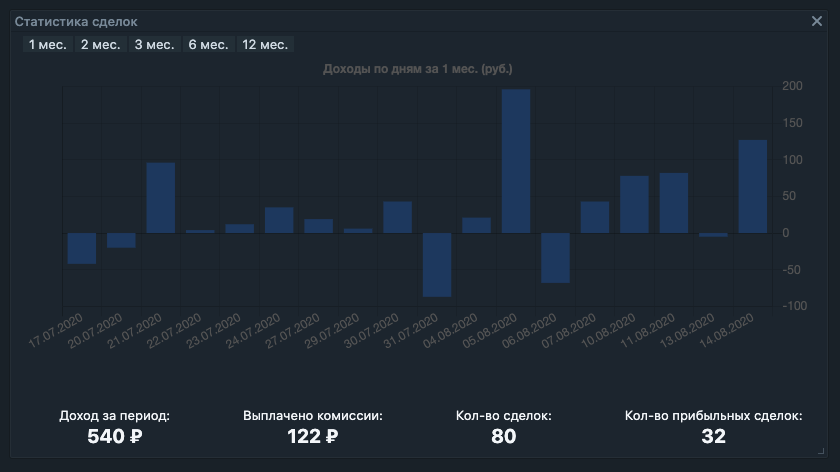
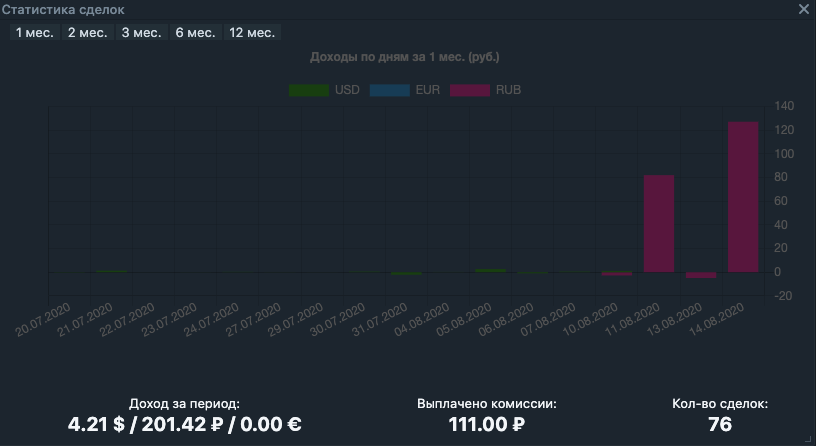
v1.1.0

diff --git a/src/content/statChart.js b/src/content/statChart.js
@@ -52,7 +52,7 @@ export default class StatChart {
             document.getElementById('SpaceVisibleArea').addEventListener('mousemove', chartMoveEvent, false);
         }, false);
 
-        document.getElementById('SpaceVisibleArea').addEventListener('mouseup', (e) => {
+        document.getElementById('SpaceVisibleArea').addEventListener('mouseup', () => {
             initialX = currentX;
             initialY = currentY;
 
@@ -105,16 +105,15 @@ export default class StatChart {
         const data = new Data();
 
         let sumCom = 0,
-            sumPeriod = 0,
-            sumPlusOperations = 0,
             sumOperations = 0;
 
         let items = await data.getOperations(months);
 
         let obj = {};
+        let dObj = {};
         items.reverse();
 
-        for (const item of items) {
+        items.forEach((item) => {
             if (item.ticker !== 'USDRUB' && item.status === 'done' && item.ticker) {
                 const date = moment(item.date).format('L');
 
@@ -130,107 +129,135 @@ export default class StatChart {
                     item.price = -item.price;
                 }
 
+                if (!dObj[date]) {
+                    dObj[date] = {
+                        sumRUB: 0,
+                        sumUSD: 0,
+                        sumEUR: 0,
+                        sumCom: 0,
+                        tickers: {}
+                    }
+                }
+
                 if (item.operationType !== 'BrokCom') {
                     sumOperations += 1;
                 }
 
-                if (['Buy', 'Sell', 'BrokCom'].includes(item.operationType)) {
-                    obj[item.ticker][date][item.operationType] = obj[item.ticker][date][item.operationType] ? [...obj[item.ticker][date][item.operationType], item] : [item];
-                }
-            }
-        }
-
-        let dateObj = {};
-
-        for (const ticker in obj) {
-            let remainder = [];
-
-            for (const date in obj[ticker]) {
-                if (Object.keys(obj[ticker][date]).length === 0) {
-                    continue;
+                if (item.operationType === 'BrokCom') {
+                    switch (item.currency) {
+                        case 'USD':
+                            dObj[date].sumUSD += item.payment;
+                            break;
+                        case 'RUB':
+                            dObj[date].sumRUB += item.payment;
+                            break;
+                        case 'EUR':
+                            dObj[date].sumEUR += item.payment;
+                            break;
+                    }
                 }
 
-                let usdRub = 1;
-                let el = obj[ticker][date];
-                let sum = 0;
-
-                if (el.Buy && el.Buy[0].commissionCurrency === 'USD') {
-                    usdRub = Math.abs(el.Buy[0].commissionRub / el.Buy[0].commission);
-                } else if (el.Sell && el.Sell[0].commissionCurrency === 'USD') {
-                    usdRub = Math.abs(el.Sell[0].commissionRub / el.Sell[0].commission);
-                }
-
-                if (remainder.length === 0) {
-                    remainder = el.Buy ? el.Buy : el.Sell;
-                } else if (el[remainder[0].operationType]) {
-                    remainder = [...remainder, ...el[remainder[0].operationType]];
-                }
-
-                const type = remainder[0].operationType
-                const opposite = type === 'Buy' ? 'Sell' : 'Buy';
-
-                if (el[opposite]) {
-                    for (const operation of el[opposite]) {
-                        if (remainder.length === 0 || remainder[0].operationType === opposite) {
-                            remainder = [...remainder, operation];
-                            continue;
+                if (['Buy', 'Sell'].includes(item.operationType)) {
+                    if (!dObj[date].tickers[item.ticker]) {
+                        dObj[date].tickers[item.ticker] = {
+                            Buy: [],
+                            Sell: []
                         }
+                    }
+                    dObj[date].tickers[item.ticker][item.operationType].push(item);
+                    dObj[date].sumCom -= item.commissionRub ? item.commissionRub : 0;
+                    item.commissionRub = 0;
 
-                        const len = remainder.length;
+                    if (item.quantity > 0) {
+                        const unixDate = moment(item.date).unix();
+                        obj[item.ticker][date][item.operationType] = obj[item.ticker][date][item.operationType] ? [...obj[item.ticker][date][item.operationType], item] : [item];
+                        const opposite = item.operationType === 'Buy' ? 'Sell' : 'Buy';
 
-                        for (let i = 0; i < len; i++) {
-                            if (operation.quantity <= remainder[0].quantity) {
-                                sum += operation.quantity * (operation.price + remainder[0].price)
+                        items.forEach((oldItem) => {
+                            if (oldItem.ticker === item.ticker && oldItem.operationType === opposite && unixDate > moment(oldItem.date).unix() && item.quantity > 0 && oldItem.quantity > 0) {
+                                dObj[date].sumCom -= oldItem.commissionRub;
+                                oldItem.commissionRub = 0;
 
-                                if (operation.quantity * (operation.price + remainder[0].price) > 0)
-                                    sumPlusOperations += 1;
+                                let sum;
 
-                                remainder[0].quantity -= operation.quantity;
-                                if (remainder[0].quantity === 0) {
-                                    remainder.shift();
+                                if (item.quantity - oldItem.quantity >= 0) {
+                                    sum = oldItem.quantity * (oldItem.price + item.price);
+
+                                    item.quantity -= oldItem.quantity;
+                                    oldItem.quantity -= oldItem.quantity;
+                                } else {
+                                    sum = item.quantity * (oldItem.price + item.price);
+                                    item.quantity -= item.quantity;
+                                    oldItem.quantity -= item.quantity;
                                 }
-                                break;
-                            } else {
-                                sum += remainder[0].quantity * (operation.price + remainder[0].price);
 
-                                if (remainder[0].quantity * (operation.price + remainder[0].price) > 0)
-                                    sumPlusOperations += 1;
-
-                                operation.quantity -= remainder[0].quantity;
-                                remainder.shift();
-                                if (operation.quantity === 0) {
-                                    break;
+                                switch (oldItem.currency) {
+                                    case 'USD':
+                                        dObj[date].sumUSD += sum;
+                                        break;
+                                    case 'RUB':
+                                        dObj[date].sumRUB += sum;
+                                        break;
+                                    case 'EUR':
+                                        dObj[date].sumEUR += sum;
+                                        break;
                                 }
                             }
-                        }
+
+                            return oldItem
+                        })
                     }
                 }
-
-                if (obj[ticker][date].BrokCom) {
-                    for (const comm of obj[ticker][date].BrokCom) {
-                        sum += comm.payment;
-                        sumCom -= Math.round(comm.payment * usdRub)
-                    }
-                }
-
-                dateObj[date] = (dateObj[date] ? dateObj[date] : 0) + Math.round(sum * usdRub);
-                sumPeriod += Math.round(sum * usdRub);
             }
-        }
 
-        dateObj = Object.keys(dateObj).sort().reduce((r, k) => (r[k] = dateObj[k], r), {});
+            return item;
+        });
+
+        dObj = Object.keys(dObj).sort().reduce((r, k) => (r[k] = dObj[k], r), {});
 
         let labels = [],
-            debs = [];
+            debs = {
+                'USD': {
+                    label: 'USD',
+                    backgroundColor: '#174e18',
+                    data: []
+                },
+                'EUR': {
+                    label: 'EUR',
+                    backgroundColor: '#184d67',
+                    data: []
+                },
+                'RUB': {
+                    label: 'RUB',
+                    backgroundColor: '#6e234d',
+                    data: []
+                }
+            };
 
-        for (const key in dateObj) {
+        let sumUSD = 0;
+        let sumEUR = 0;
+        let sumRUB = 0;
+
+        for (const key in dObj) {
             const date = moment(key, 'L').format('DD.MM.YYYY');
 
             labels = [...labels, date];
-            debs = [...debs, dateObj[key]];
+
+            dObj[key].sumUSD = Math.round(dObj[key].sumUSD * 100) / 100
+            dObj[key].sumEUR = Math.round(dObj[key].sumEUR * 100) / 100
+            dObj[key].sumRUB = Math.round(dObj[key].sumRUB * 100) / 100
+
+            debs.USD.data.push(dObj[key].sumUSD);
+            debs.EUR.data.push(dObj[key].sumEUR);
+            debs.RUB.data.push(dObj[key].sumRUB);
+
+            sumUSD += dObj[key].sumUSD;
+            sumEUR += dObj[key].sumEUR;
+            sumRUB += dObj[key].sumRUB;
+            sumCom += dObj[key].sumCom;
         }
 
-        this._setChart(canvas, 'Доходы по дням за '+months+' мес. (руб.)', 'bar', debs, labels);
+        this._setChart(canvas, 'Доходы по дням за '+months+' мес. (руб.)', 'bar', Object.values(debs), labels);
 
         let wrapper = el.getElementsByClassName('stat-wrap');
 
@@ -244,22 +271,16 @@ export default class StatChart {
         wrapper.className = 'stat-wrap';
 
         wrapper.innerHTML = '';
-        wrapper.innerHTML += '<div class="stat-wrap_items">Доход за период: <span><b>' + sumPeriod + ' ₽</b></span></div>';
-        wrapper.innerHTML += '<div class="stat-wrap_items">Выплачено комиссии: <span><b>' + sumCom + ' ₽</b></span></div>';
+        wrapper.innerHTML += '<div class="stat-wrap_items">Доход за период: <span><b>' + sumUSD.toFixed(2) + ' $ / '+sumRUB.toFixed(2)+' ₽ / '+sumEUR.toFixed(2)+' €</b></span></div>';
+        wrapper.innerHTML += '<div class="stat-wrap_items">Выплачено комиссии: <span><b>' + sumCom.toFixed(2) + ' ₽</b></span></div>';
         wrapper.innerHTML += '<div class="stat-wrap_items">Кол-во сделок: <span><b>' + sumOperations + '</b></span></div>';
-        wrapper.innerHTML += '<div class="stat-wrap_items">Кол-во прибыльных сделок: <span><b>' + sumPlusOperations + '</b></span></div>';
     }
 
     _setChart(canvas, name, type, data, labels) {
         if (window.chart) {
             window.chart.type = type;
             window.chart.data.labels = labels;
-            window.chart.data.datasets = [{
-                data: data,
-                backgroundColor: 'rgba(36, 72, 112, 1)',
-                borderColor: 'rgba(36, 72, 112, 1)',
-                fill: false
-            }];
+            window.chart.data.datasets = data;
             window.chart.options.title.text = name;
             window.chart.update();
             return;
@@ -270,16 +291,11 @@ export default class StatChart {
             type: type,
             data: {
                 labels: labels,
-                datasets: [{
-                    data: data,
-                    backgroundColor: 'rgba(36, 72, 112, 1)',
-                    borderColor: 'rgba(36, 72, 112, 1)',
-                    fill: false
-                }]
+                datasets: data
             },
             options: {
                 legend: {
-                    display: false
+                    display: true
                 },
                 responsive: false,
                 title: {
@@ -287,16 +303,20 @@ export default class StatChart {
                     text: name
                 },
                 tooltips: {
-                    enabled: true
+                    enabled: true,
+                    mode: 'index',
+                    inspect: true
                 },
                 scales: {
                     xAxes: [{
+                        stacked: true,
                         display: true,
                         scaleLabel: {
                             display: false,
                         }
                     }],
                     yAxes: [{
+                        stacked: true,
                         display: true,
                         position: 'right',
                         scaleLabel: {

diff --git a/README.md b/README.md
@@ -15,8 +15,10 @@
 ### Виджет статистики сделок
 ![screenshot](https://github.com/igor4566/tinvest-trading-stat/blob/master/other/printscreen.png?raw=true)
 
-В этом виджете выводится статистика доходов по дням за заданный, с учетом комиссии.
+В этом виджете выводится статистика доходов по дням за заданный период, с учетом комиссии.
 Также выводится краткая сводка в нижней части виджета.
+
+При нажатии на легенду графика можно просматривать только нужные столбцы.
 
 ## Установка
 [![download](https://github.com/igor4566/tinvest-trading-stat/blob/master/other/download.png?raw=true)](https://github.com/igor4566/tinvest-trading-stat/releases/download/v1.0.0/tinvest-trading-stat.zip)

diff --git a/CHANGELOG.md b/CHANGELOG.md
@@ -4,6 +4,11 @@
 [Формат](https://keepachangelog.com/en/1.0.0/) и [семантика версий](https://semver.org/lang/ru/),
 которомым следует придерживаться.
 
+## [v1.1.0] - 2020-08-16
+
+  - Изменение графика виджете статистики сделок
+  - Рефакторинг кода подсчета доходов 
+
 ## [v1.0.0] - 2020-08-16
 
   - Добавлен виджет статистики сделок, в котором выводятся данные по дням
